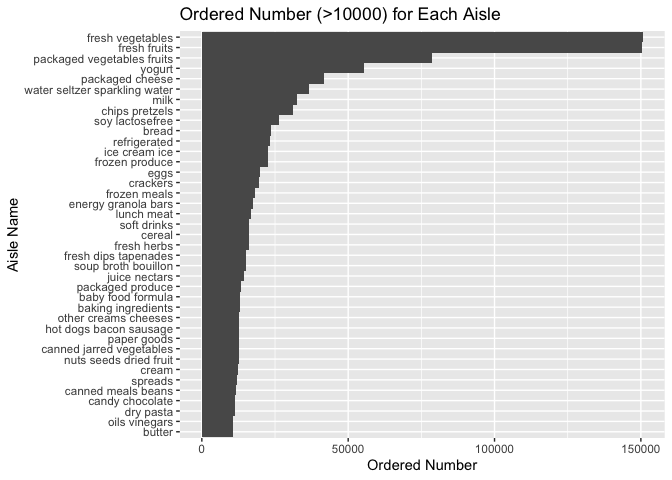
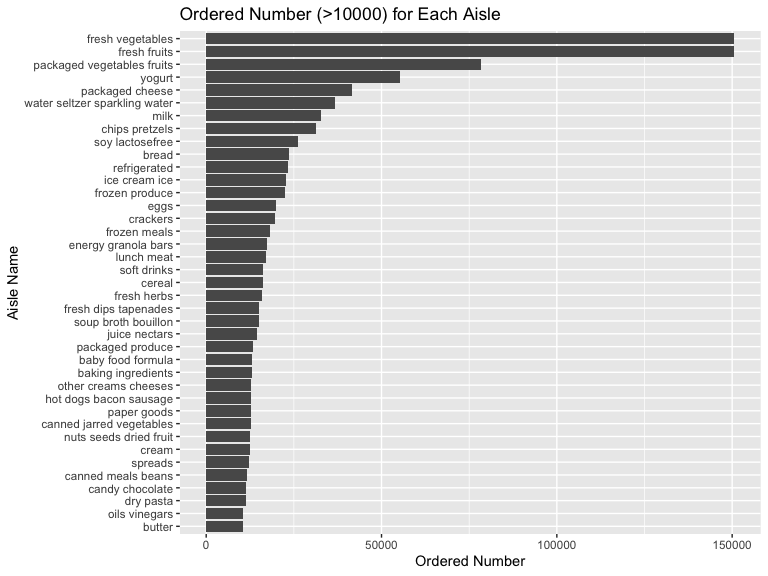
Finish the problem 3

Changed region(s): [[0.0312, 0.0, 1.0, 1.0], [0.0, 0.4062, 0.0312, 0.5625]]

diff --git a/p8105_hw3_yw3439.md b/p8105_hw3_yw3439.md
@@ -1,0 +1,306 @@
+p8105\_hw3\_yw3439
+================
+Qetsiyah Wang
+10/8/2020
+
+## Problem 1 Instacart
+
+``` r
+library(p8105.datasets)
+data("instacart")
+```
+
+The dataset instacart contains 1384617 observations and 15 variables,
+order\_id, product\_id, add\_to\_cart\_order, reordered, user\_id,
+eval\_set, order\_number, order\_dow, order\_hour\_of\_day,
+days\_since\_prior\_order, product\_name, aisle\_id, department\_id,
+aisle, department. Instacart mainly discusses about details of each
+order for different customers, including order time, order quantity,
+reordered condition. Order\_dow, order\_hour\_of\_day show order time
+while placing each order. Reordered condition is mainly introduced in
+logical variable “reordered”, order\_number and
+days\_since\_prior\_order. Also, instacart introduces products
+information for each order, product\_name, aisle\_id, department\_id,
+aisle, department. For example, the product, yellow onions and organic
+butternut squash belong to the aisle of fresh vegetables and the produce
+department.
+
+``` r
+aisle = instacart %>%
+  group_by(aisle) %>%
+  summarize(ordered_number = n()) %>%
+  arrange(-ordered_number)
+
+aisle %>%
+  filter(ordered_number > 10000) %>%
+  mutate(
+    aisle = fct_reorder(aisle, ordered_number)
+  ) %>%
+  ggplot(aes(x = ordered_number, y = aisle)) +
+  geom_bar(stat = "identity", width = 0.9) +
+  labs(title = "Ordered Number (>10000) for Each Aisle",
+       x = "Ordered Number",
+       y = "Aisle Name")
+```
+
+![](p8105_hw3_yw3439_files/figure-gfm/unnamed-chunk-2-1.png)<!-- -->
+
+Instacart shows that the Fresh Vegetables is the aisle that most items
+ordered from, with total order of 150609. Shown in the plot “Ordered
+Number (\>10000) for Each Aisle”, there are 39 aisles containing ordered
+number of items more than 100000. Besides Fresh Vegetables, Fresh Fruits
+show significantly high items ordered of 150473, than any else aisles.
+
+``` r
+baking = instacart %>%
+  filter(aisle == "baking ingredients") %>%
+  group_by(aisle, product_id, product_name) %>%
+  summarize(order_number = sum(order_number)) %>%
+  arrange(-order_number) %>%
+  head(3)
+
+dog = instacart %>%
+  filter(aisle == "dog food care") %>%
+  group_by(aisle, product_id, product_name) %>%
+  summarize(order_number = sum(order_number)) %>%
+  arrange(-order_number) %>%
+  head(3) %>%
+  full_join(baking)
+
+most_popular_items = instacart %>%
+  filter(aisle == "packaged vegetables fruits") %>%
+  group_by(aisle, product_id, product_name) %>%
+  summarize(order_number = sum(order_number)) %>%
+  arrange(-order_number) %>%
+  head(3) %>%
+  full_join(dog)
+
+knitr::kable(most_popular_items, caption = 'Three Most Popular Items for "Baking Ingredients", "Dog Food Care", "Packaged Vegetables Fruits')
+```
+
+| aisle                      | product\_id | product\_name                                 | order\_number |
+| :------------------------- | ----------: | :-------------------------------------------- | ------------: |
+| packaged vegetables fruits |       21903 | Organic Baby Spinach                          |        171301 |
+| packaged vegetables fruits |       27966 | Organic Raspberries                           |        113932 |
+| packaged vegetables fruits |       39275 | Organic Blueberries                           |         86765 |
+| dog food care              |       32635 | Standard Size Pet Waste bags                  |           675 |
+| dog food care              |        2574 | Beef Stew Canned Dog Food                     |           631 |
+| dog food care              |         722 | Snack Sticks Chicken & Rice Recipe Dog Treats |           589 |
+| baking ingredients         |       23537 | Light Brown Sugar                             |          8605 |
+| baking ingredients         |       49533 | Cane Sugar                                    |          6244 |
+| baking ingredients         |        7500 | Organic Vanilla Extract                       |          6003 |
+
+Three Most Popular Items for “Baking Ingredients”, “Dog Food Care”,
+"Packaged Vegetables Fruits
+
+As shown in the table above, three most popular items for “Baking
+Ingredients” are Light Brown Sugar, Cane Sugar, Organic Vanilla Extract,
+with order times of 8605, 6244, 6003, respectively. For “Dog Food Care”,
+three most popular items are Standard Size Pet Waste bags, Beef Stew
+Canned Dog Food, Snack Sticks Chicken & Rice Recipe Dog Treats, with
+order times of 675, 631, 589, respectively. For “Packaged Vegetables
+Fruits”, three most popular items are Organic Baby Spinach, Organic
+Raspberries, Organic Blueberries, with order times of 171301, 113932,
+86765, respectively.
+
+``` r
+order_hour = instacart %>%
+  select(product_name, order_dow, order_hour_of_day) %>%
+  filter(product_name == "Pink Lady Apples" | product_name == "Coffee Ice Cream") %>%
+  mutate(
+    order_dow = as.factor(order_dow),
+    order_dow = recode(order_dow, "0" = "sunday", "1" = "monday", "2" = "tuesday", "3" = "wednesday",
+                       "4" = "thursday", "5" = "friday", "6" = "saturday")
+    ) %>%
+  group_by(product_name, order_dow) %>%
+  summarize(mean_order_hour = mean(order_hour_of_day, na.rm = TRUE)) %>%
+  arrange(product_name, -mean_order_hour)
+
+fine_order_hr = order_hour %>%
+  arrange(order_dow) %>%
+  pivot_wider(
+    names_from = order_dow,
+    values_from = mean_order_hour
+  )
+
+knitr::kable(fine_order_hr, caption = 'Mean Hour of Day for Pink Lady Apples and Coffee Ice Cream')
+```
+
+| product\_name    |   sunday |   monday |  tuesday | wednesday | thursday |   friday | saturday |
+| :--------------- | -------: | -------: | -------: | --------: | -------: | -------: | -------: |
+| Coffee Ice Cream | 13.77419 | 14.31579 | 15.38095 |  15.31818 | 15.21739 | 12.26316 | 13.83333 |
+| Pink Lady Apples | 13.44118 | 11.36000 | 11.70213 |  14.25000 | 11.55172 | 12.78431 | 11.93750 |
+
+Mean Hour of Day for Pink Lady Apples and Coffee Ice Cream
+
+Mean of hour of day for each week for “Pink Lady Apples” and “Coffee Ice
+Cream” is shown in the table above. From the table, for “Coffee Ice
+Cream”, the highest mean order hour is 15.3809524 on tuesday. “Pink Lady
+Apples” shows the highest mean order hour of 14.25 on wednesday.
+Generally, coffee ice cream shows higher mean order hour than pink lady
+apples for 7 days within a week.
+
+## Problem 2 Accelerometers
+
+``` r
+accel_tidy = read_csv("accel_data.csv") %>%
+  janitor::clean_names() %>%
+  mutate(
+    day_type = rep("weekday", 35),
+    day_type = ifelse(day == "Sunday"| day == "Saturday", recode(day_type, "weekday" = "weekend"), "weekday")
+  ) %>%
+  select(-day_id) %>%
+  mutate(
+    day = factor(day, levels = c("Monday", "Tuesday", "Wednesday", "Thursday", "Friday",
+                                 "Saturday", "Sunday"))
+  ) %>%
+  pivot_longer(
+    activity_1:activity_1440,
+    names_to = "minute_of_the_day",
+    names_prefix = "activity_",
+    values_to = "activity_counts"
+  ) %>%
+  arrange(day)
+
+day_activity = accel_tidy %>%
+  group_by(week, day_type, day) %>%
+  summarize(total_activity = sum(activity_counts))
+```
+
+Accelerometers mainly discusses the study on the physical activity of a
+63 year-old male with BMI 25. The whole dataset contains 5 variables,
+week, day, day\_type, minute\_of\_the\_day, activity\_counts. 1440
+activity counts, for every minute of 24-hour day for total 35 days, are
+all tidied into two variables, minute\_of\_the\_day and
+activity\_counts, resulting final 50400 observations. Collecting
+activity accounts based on days, general physical activity for this
+participant is maintaining around 3.845434510^{5}. Across through the
+whole study period of 35 days, there is no significant difference of his
+physical activity between weekday and weekend. The maximum of the
+physical activity is 3. There are two abnormal data on Saturday in week
+4 and week 5, which only show 1440.
+
+``` r
+accel_tidy %>%
+  mutate(
+    minute_of_the_day = factor(minute_of_the_day, levels = c(1:1440), ordered = TRUE)
+  ) %>%
+  ggplot(aes(x = minute_of_the_day, y = activity_counts, color = day)) +
+  scale_x_discrete(
+    breaks = seq(1, 1440, 60),
+    labels = factor(1:24)
+  ) +
+  geom_line() +
+  labs(
+    title = "24-hour Inspection Activity time courses for each day",
+    x = "Time course for one 24-Hour Day",
+    y = "Activity Counts"
+  )
+```
+
+![](p8105_hw3_yw3439_files/figure-gfm/unnamed-chunk-6-1.png)<!-- -->
+
+Based on the plot, from the aspect of 24-hour time course, it is obvious
+that two major parts of the physical activity for the participant are
+focusing on around 12pm and 9-11pm. Before 7am, the physical activity is
+lowest because this time period is sleeping time. From the aspect of
+days, the physical activity on Sunday is concentrating at noon, and that
+on Friday is focusing at night. For Saturday, the participant would show
+mildly higher physical activity at around 5pm.
+
+## Problem 3 NY NOAA data
+
+``` r
+library(p8105.datasets)
+data("ny_noaa")
+```
+
+NY NOAA mainly presents a database about daily observations on climate
+in New York City for each day, starting from 2007-11-01, containing
+2595176 observations. Observations are focused on several common weather
+parameters, prcp, snow, snwd, tmax, tmin, presenting precipitation,
+snowfalls and temperature in NYC. Each parameter contains lots of
+missing values, especially for maximum temperature that has 1134358
+missing values. Generally, this dataset needs further tidy steps.
+
+``` r
+ny_climate = ny_noaa %>%
+  janitor::clean_names() %>%
+  separate(date, c("year", "month", "day"))
+```
+
+``` r
+ny_climate = ny_climate %>%
+  mutate(
+    month = factor(month, levels = c("01", "02", "03", "04", "05",
+                                     "06", "07", "08", "09", "10", "11", "12"), labels = month.name),
+    tmax = as.numeric(tmax)/10,
+    tmin = as.numeric(tmin)/10,
+    prcp = prcp/10
+  )
+
+snow = ny_climate %>%
+  mutate(
+    snow = as.factor(snow)
+  ) %>%
+  group_by(snow) %>%
+  summarize(count = n()) %>%
+  arrange(-count)
+```
+
+Original dataset uses tenth of the unit for three paraemeters: maximum
+temperature, minimum temperature and precipitation, which are all
+changed into reasonable unites through being divided by 10. For
+snowfalls, except missing values, the most common observed values are 0
+with observations of 2008508.
+
+``` r
+ny_climate %>%
+  filter(month == "January" | month =="July") %>%
+  ggplot(aes(y = tmax)) +
+  geom_boxplot(aes(fill = month), alpha = 0.2) +
+  labs(title = "Average Temperature in January and July across Years",
+       x = "Month",
+       y = "Maximum Tempertaure in Degree C") +
+  facet_grid(~ month)
+```
+
+![](p8105_hw3_yw3439_files/figure-gfm/unnamed-chunk-10-1.png)<!-- -->
+
+Shown in the plot, the average maximum temperature in July is
+significantly higher than that in January, which does make sense because
+July is in summer and January is in winter. The boxplot for January is
+wider than the boxplot of July, meaning that the range for maximum
+temperature in July is smaller than that in January. Outliers exists for
+both months, which both occupies quite big proportion of the data
+because the transparent filling of outliers can increase into solid
+color while approaching to the average maximum temperature.
+
+``` r
+temp = ny_climate %>%
+  ggplot(aes(x = tmax, y = tmin)) +
+  geom_hex() +
+  stat_binhex(na.rm = TRUE) +
+  labs(
+    title = "Maximum Temperature vs. Minimum Temperature",
+    x = "Maximum Daily Temperature (C)",
+    y = "Minimum Daily Temperature (C)"
+  ) +
+  theme(legend.position = "left")
+
+snowfall = ny_climate %>%
+  filter(snow > 0) %>%
+  filter(snow < 100) %>%
+  ggplot(aes(x = snow, color = year), alpha = 0.2) +
+  geom_density() +
+  labs(
+    title = "The Distribution of Snowfall Values through Years",
+    x = "Snowfalls in mm",
+    y = "Density"
+  ) +
+  theme(legend.position = "left")
+  
+temp/snowfall
+```
+
+![](p8105_hw3_yw3439_files/figure-gfm/unnamed-chunk-11-1.png)<!-- -->
